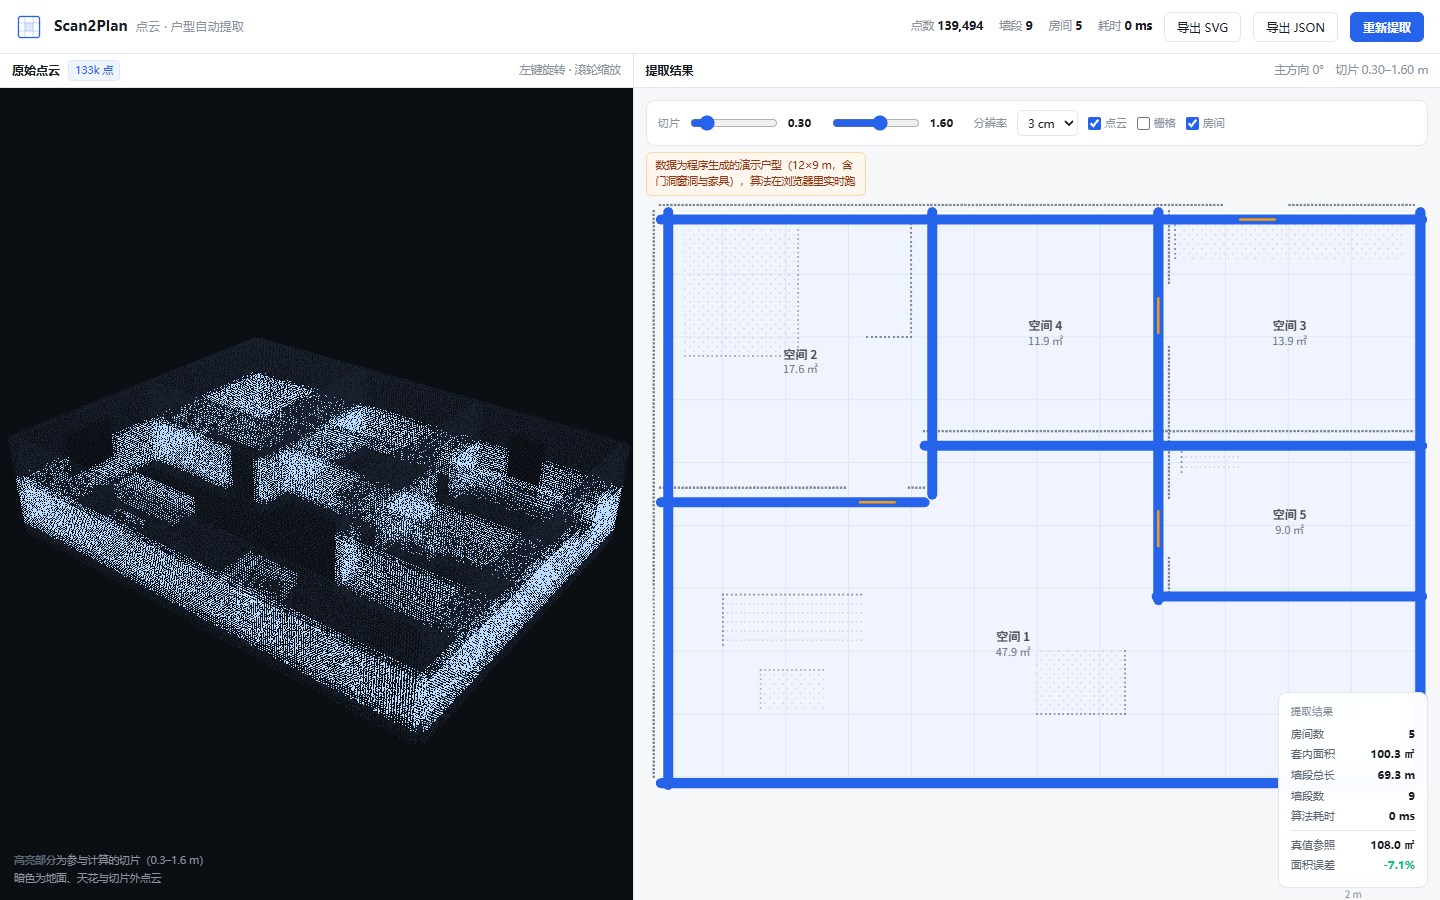
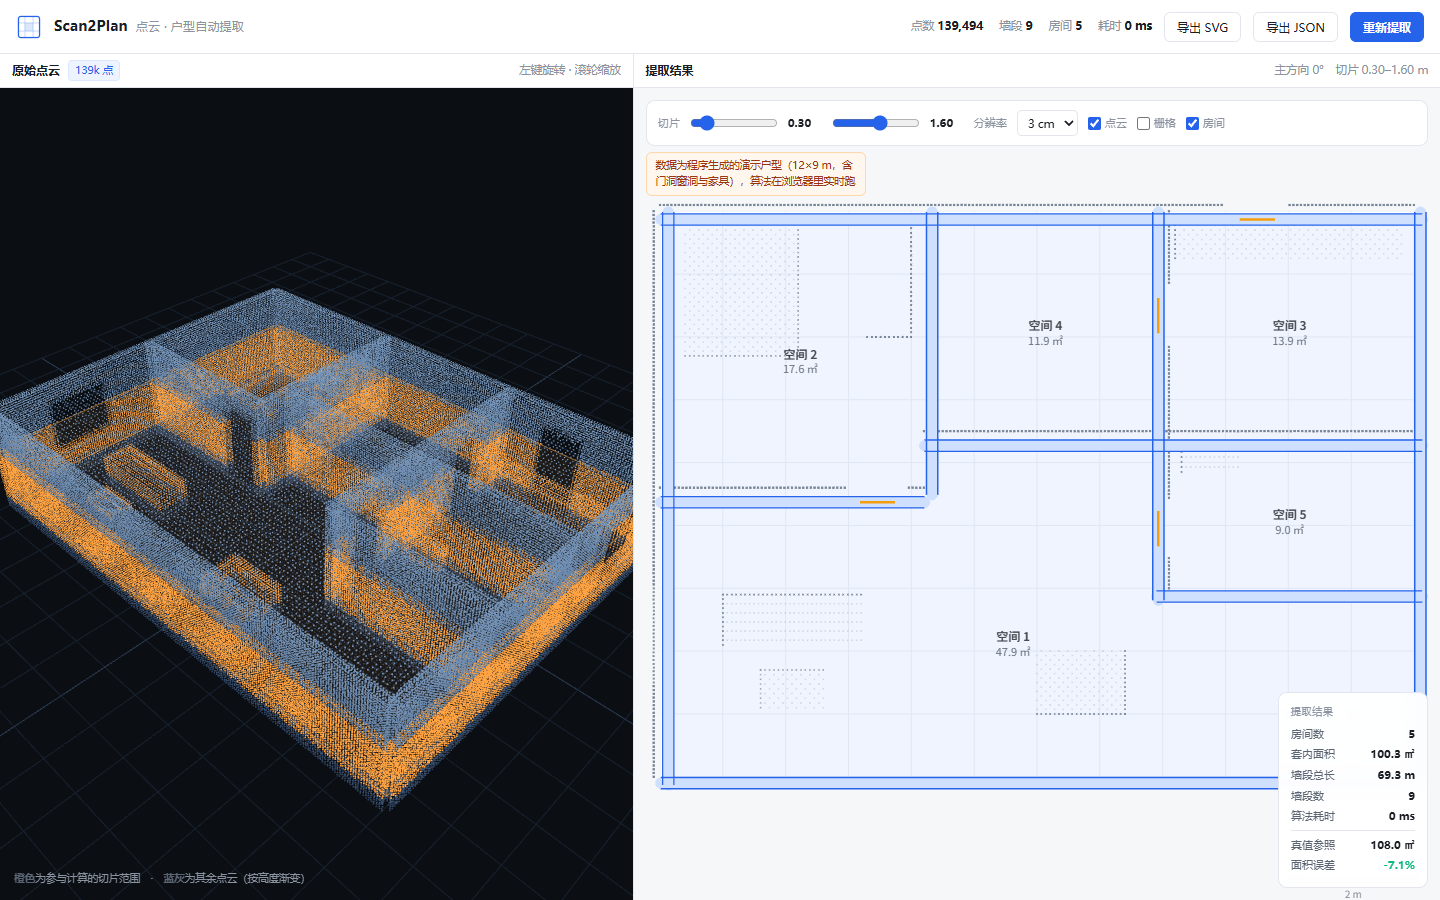
feat: 3D 视图升级（高度渐变、切片线框、地面网格）+ 墙体双线制图；支持 URL 参数指定切片

Changed region(s): [[0.0, 0.2178, 1.0, 0.9022], [0.0, 0.9333, 0.2188, 0.9956]]

diff --git a/app.js b/app.js
@@ -28,16 +28,17 @@
       view.pos = new Float32Array(buf, 0, N * 3);
       view.N = N;
       $('mPts').textContent = N.toLocaleString();
+      var tag = $('ptTag'); if (tag) tag.textContent = (N / 1000).toFixed(0) + 'k 点';
       buildThree();
       run();
     });
   }
 
   // ============ 3D 预览 ============
-  var renderer, scene, camera, cloud, geo, cam = { tx: 6, ty: 1.2, tz: 4.5, r: 22, th: 0.9, ph: 1.05 };
+  var renderer, scene, camera, cloud, geo, sliceBox, cam = { tx: 6, ty: 1.0, tz: 4.5, r: 20, th: 0.80, ph: 0.92 };
 
   function buildThree() {
-    renderer = new THREE.WebGLRenderer({ canvas: $('gl'), antialias: false });
+    renderer = new THREE.WebGLRenderer({ canvas: $('gl'), antialias: true });
     renderer.setPixelRatio(Math.min(window.devicePixelRatio || 1, 2));
     renderer.setClearColor(0x0b0f14, 1);
 
@@ -52,10 +53,26 @@
     geo.computeBoundingSphere();
 
     cloud = new THREE.Points(geo, new THREE.PointsMaterial({
-      size: 0.05, vertexColors: true, sizeAttenuation: true
+      size: 0.058, vertexColors: true, sizeAttenuation: true
     }));
     cloud.frustumCulled = false;
     scene.add(cloud);
+
+    // 地面网格，提供空间参照
+    var grid = new THREE.GridHelper(24, 24, 0x2a3b4f, 0x16212d);
+    grid.position.set(6, -0.02, 4.5);
+    scene.add(grid);
+
+    // 切片范围线框
+    sliceBox = new THREE.Group();
+    var bg = new THREE.BoxGeometry(1, 1, 1);
+    var edges = new THREE.LineSegments(new THREE.EdgesGeometry(bg),
+      new THREE.LineBasicMaterial({ color: 0xffa53d, transparent: true, opacity: 0.55 }));
+    var face = new THREE.Mesh(bg, new THREE.MeshBasicMaterial({
+      color: 0xffa53d, transparent: true, opacity: 0.035, side: THREE.DoubleSide, depthWrite: false
+    }));
+    sliceBox.add(face); sliceBox.add(edges);
+    scene.add(sliceBox);
 
     applyCam(); resize();
   }
@@ -98,13 +115,34 @@
   // 切片内的点高亮，其余压暗
   function paintSlice(y0, y1) {
     var col = geo.getAttribute('color').array, p = view.pos, N = view.N;
+    var H = (view.meta && view.meta.height) || 2.7;
     for (var i = 0; i < N; i++) {
       var y = p[i * 3 + 1];
-      var inS = y >= y0 && y <= y1;
-      if (inS) { col[i * 3] = 0.72; col[i * 3 + 1] = 0.86; col[i * 3 + 2] = 1.0; }
-      else { col[i * 3] = 0.10; col[i * 3 + 1] = 0.13; col[i * 3 + 2] = 0.18; }
+      if (y >= y0 && y <= y1) {
+        col[i * 3] = 1.0; col[i * 3 + 1] = 0.64; col[i * 3 + 2] = 0.26;
+      } else {
+        var t = Math.pow(Math.max(0, Math.min(1, y / H)), 0.6);
+        col[i * 3] = 0.18 + t * 0.28;
+        col[i * 3 + 1] = 0.26 + t * 0.32;
+        col[i * 3 + 2] = 0.38 + t * 0.34;
+      }
     }
     geo.getAttribute('color').needsUpdate = true;
+
+    // 同步切片线框
+    if (sliceBox) {
+      var W = view.meta.width, D = view.meta.depth, hgt = Math.max(0.06, y1 - y0);
+      sliceBox.scale.set(W, hgt, D);
+      sliceBox.position.set(W / 2, (y0 + y1) / 2, D / 2);
+    }
+    // 切片内点数过少时提示
+    var cnt = 0;
+    for (var k = 0; k < N; k++) { var yy = p[k * 3 + 1]; if (yy >= y0 && yy <= y1) cnt++; }
+    var tip = $('sliceTip');
+    if (tip) {
+      if (cnt < 6000) { tip.textContent = '当前切片只有 ' + cnt.toLocaleString() + ' 个点，墙面结构不明显，建议把切片拉回 0.3–1.6 m'; tip.style.display = 'block'; }
+      else tip.style.display = 'none';
+    }
   }
 
   // ============ 核心算法 ============
@@ -402,14 +440,35 @@
       }
     }
 
-    // 墙线
-    ctx.strokeStyle = '#2563eb';
-    ctx.lineWidth = Math.max(2.5, 0.16 * sc);
-    ctx.lineCap = 'round';
+    // 墙体：按真实墙厚画双线 + 填充
+    var hw = 0.09;
+    ctx.fillStyle = '#cfe0ff';
     result.walls.forEach(function (s) {
+      var dx = s.x2 - s.x1, dz = s.z2 - s.z1, L = Math.hypot(dx, dz) || 1;
+      var nx = -dz / L * hw, nz = dx / L * hw;
       ctx.beginPath();
-      ctx.moveTo(TX(s.x1), TZ(s.z1));
-      ctx.lineTo(TX(s.x2), TZ(s.z2));
+      ctx.moveTo(TX(s.x1 + nx), TZ(s.z1 + nz));
+      ctx.lineTo(TX(s.x2 + nx), TZ(s.z2 + nz));
+      ctx.lineTo(TX(s.x2 - nx), TZ(s.z2 - nz));
+      ctx.lineTo(TX(s.x1 - nx), TZ(s.z1 - nz));
+      ctx.closePath();
+      ctx.fill();
+      ctx.beginPath();
+      ctx.arc(TX(s.x1), TZ(s.z1), hw * sc, 0, 6.2832);
+      ctx.arc(TX(s.x2), TZ(s.z2), hw * sc, 0, 6.2832);
+      ctx.fill();
+    });
+    ctx.strokeStyle = '#2563eb';
+    ctx.lineWidth = 1.4;
+    ctx.lineJoin = 'round';
+    result.walls.forEach(function (s) {
+      var dx = s.x2 - s.x1, dz = s.z2 - s.z1, L = Math.hypot(dx, dz) || 1;
+      var nx = -dz / L * hw, nz = dx / L * hw;
+      ctx.beginPath();
+      ctx.moveTo(TX(s.x1 + nx), TZ(s.z1 + nz));
+      ctx.lineTo(TX(s.x2 + nx), TZ(s.z2 + nz));
+      ctx.moveTo(TX(s.x1 - nx), TZ(s.z1 - nz));
+      ctx.lineTo(TX(s.x2 - nx), TZ(s.z2 - nz));
       ctx.stroke();
     });
 
@@ -541,6 +600,13 @@
     requestAnimationFrame(loop);
     if (renderer && scene) renderer.render(scene, camera);
   }
+
+  (function readParams() {
+    var q = new URLSearchParams(location.search);
+    if (q.has('y0')) { $('y0').value = q.get('y0'); $('y0v').textContent = (+$('y0').value).toFixed(2); }
+    if (q.has('y1')) { $('y1').value = q.get('y1'); $('y1v').textContent = (+$('y1').value).toFixed(2); }
+    if (q.has('res')) { $('res').value = q.get('res'); }
+  })();
 
   load().then(function () { requestAnimationFrame(loop); });
   window.__s2p = { get result() { return result; }, run: run };

diff --git a/index.html b/index.html
@@ -61,6 +61,8 @@ main{flex:1;display:flex;min-height:0}
 .busy{position:absolute;inset:0;display:none;align-items:center;justify-content:center;background:rgba(255,255,255,.6);z-index:9;font-size:12px;color:var(--tx2)}
 .busy.on{display:flex}
 
+  .slicetip{display:none;position:absolute;left:12px;right:12px;bottom:38px;background:rgba(255,165,61,.12);
+    border:1px solid rgba(255,165,61,.45);color:#ffc98a;font-size:11px;padding:7px 10px;border-radius:6px;line-height:1.5}
 @media(max-width:900px){
   main{flex-direction:column}
   .pane.left{flex:0 0 38%;border-right:none;border-bottom:1px solid var(--line)}
@@ -91,10 +93,11 @@ main{flex:1;display:flex;min-height:0}
 
   <main>
     <section class="pane left">
-      <div class="ptitle"><b>原始点云</b><span class="tag">133k 点</span><span style="margin-left:auto">左键旋转 · 滚轮缩放</span></div>
+      <div class="ptitle"><b>原始点云</b><span class="tag" id="ptTag">—</span><span style="margin-left:auto">左键旋转 · 滚轮缩放</span></div>
       <div class="stage">
         <canvas id="gl"></canvas>
-        <div class="hud"><b>高亮部分</b>为参与计算的切片（0.3–1.6 m）<br>暗色为地面、天花与切片外点云</div>
+        <div class="hud"><b>橙色</b>为参与计算的切片范围　·　<b>蓝灰</b>为其余点云（按高度渐变）</div>
+        <div class="slicetip" id="sliceTip"></div>
       </div>
     </section>
 
